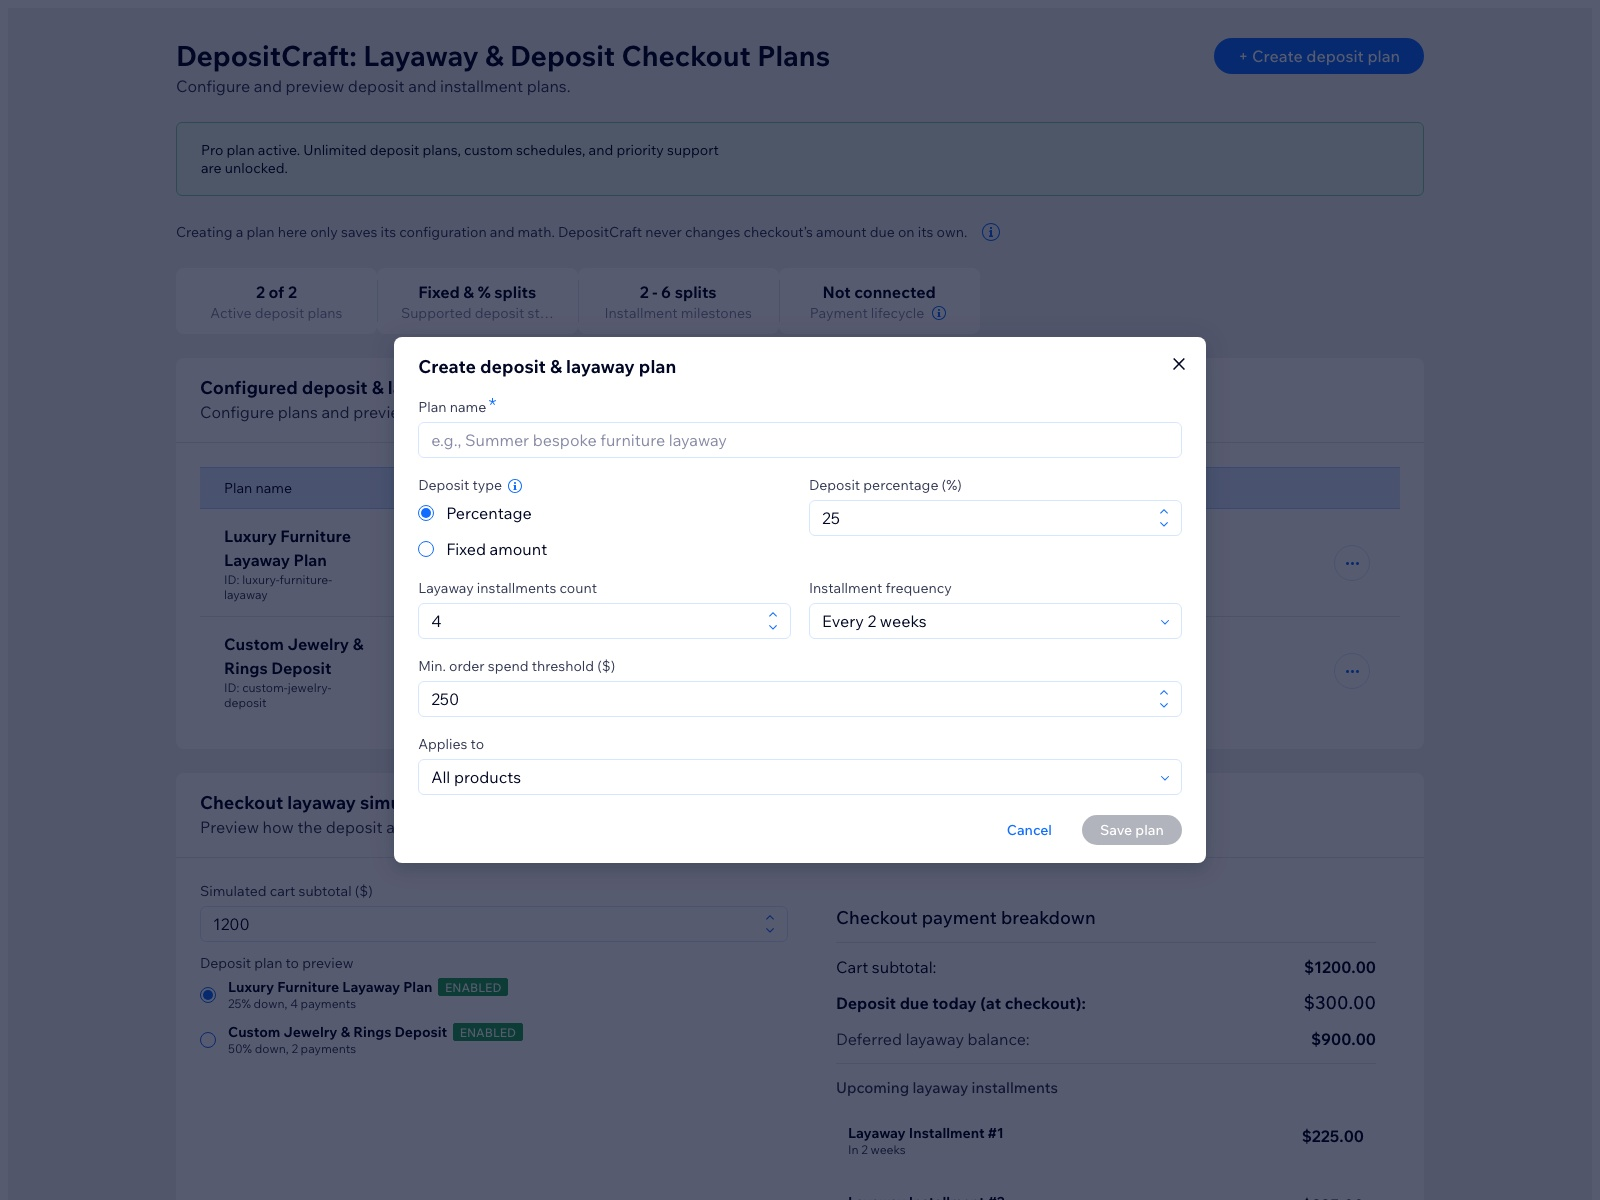
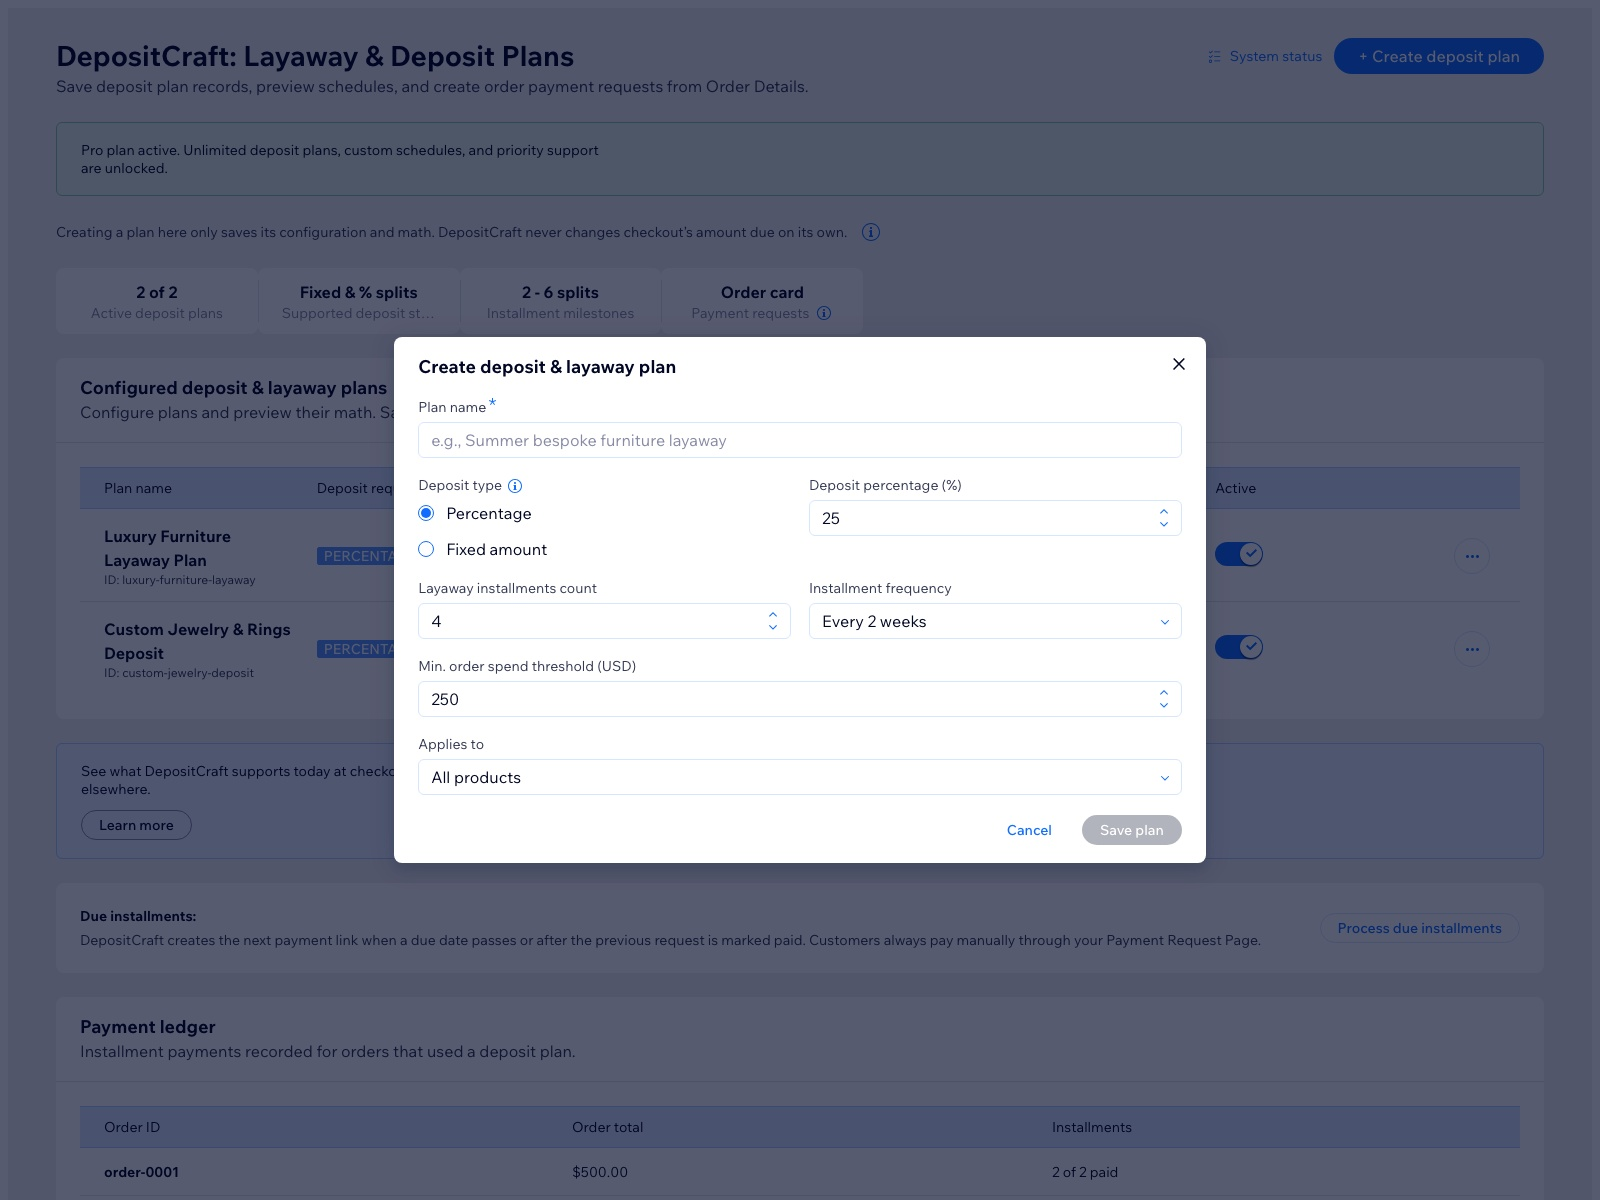
chore: final state before monorepo migration

diff --git a/src/dashboard/pages/page.tsx b/src/dashboard/pages/page.tsx
@@ -1,24 +1,55 @@
-import { withIntlProvider } from '../../intl/withIntlProvider';
-import { FormattedMessage, useIntl, type IntlShape } from 'react-intl';
 import React, { useEffect, useRef, useState } from 'react';
+import { FormattedMessage, useIntl, type IntlShape } from 'react-intl';
 import { appInstances } from '@wix/app-management';
-import { WixDesignSystemProvider, Page, Card, Table, TableActionCell, Button, TextButton, Badge, ToggleSwitch, Input, NumberInput, FormField, Modal, CustomModalLayout, MessageModalLayout, Box, Heading, Text, Divider, EmptyState, SectionHelper, StatisticsWidget, RadioGroup, Dropdown, Loader, InfoIcon } from '@wix/design-system';
-import { Delete, Checklist } from '@wix/wix-ui-icons-common';
+import { orders } from '@wix/ecom';
+import {
+  Badge,
+  Box,
+  Button,
+  Card,
+  CustomModalLayout,
+  Divider,
+  Dropdown,
+  EmptyState,
+  FormField,
+  Heading,
+  InfoIcon,
+  Input,
+  Loader,
+  MessageModalLayout,
+  Modal,
+  NumberInput,
+  Page,
+  RadioGroup,
+  SectionHelper,
+  StatisticsWidget,
+  Table,
+  TableActionCell,
+  Text,
+  TextButton,
+  ToggleSwitch,
+  WixDesignSystemProvider,
+  listItemSelectBuilder,
+} from '@wix/design-system';
 import '@wix/design-system/styles.global.css';
-import { InstallationChecklist, StorageSetupNeeded, DashboardErrorBoundary, type ChecklistItem } from '@wix-extensions/core/ui';
+import { Checklist, Delete } from '@wix/wix-ui-icons-common';
+import { DashboardErrorBoundary, InstallationChecklist, StorageSetupNeeded, type ChecklistItem } from '@wix-extensions/core/ui';
 import { installGlobalErrorReporting } from '@wix-extensions/core/telemetry';
+import { fetchRecentCollectionLookups, type CollectionLookupItem } from '@wix-extensions/core/lookups';
+
+import { withIntlProvider } from '../../intl/withIntlProvider';
 import { loadConfiguration, saveConfiguration, assessConfigurationStorage } from '../../shared/configuration';
 import { confirmStorageWithAutoRetry, extractRequestId, storageDetailHint, type StorageSetupState, type StorageCheckItem } from '../../shared/storage-readiness';
 import { emitDiagnostic, markDashboardLoaded, markSetupFinished } from '../../shared/logger';
 import { showAppToast } from '../../shared/toast';
-import { getAppEntitlement, canUsePaidFeatures, getWixPricingPageUrl, AppEntitlement } from '../../shared/entitlement';
+import { getAppEntitlement, canUsePaidFeatures, getWixPricingPageUrl, type AppEntitlement } from '../../shared/entitlement';
 import { evaluateRuleAgainstPlan, canUseFixedDeposit, canUseCustomFrequency, FREE_PLAN_MAX_ACTIVE_RULES, FREE_PLAN_FIXED_FREQUENCY } from '../../shared/plan-limits';
-import { DepositRule, DepositType, DepositRuleScope, InstallmentFrequency } from '../../types';
 import { evaluateDepositPlan } from '../../shared/deposit-engine';
 import { resolveEcommerceInstalled, WIX_ECOMMERCE_APP_MARKET_URL, type EcommerceInstallState } from '../../shared/ecommerce';
 import { deferredDiscountPercent } from '../../shared/cart-evaluation';
 import { depositTriggerName } from '../../shared/deposit-trigger-id';
 import { processDueInstallments, listPaymentLedgerPage } from '../../shared/installment-billing';
+import type { DepositRule, DepositType, DepositRuleScope, InstallmentFrequency } from '../../types';
 import type { PaymentLedger } from '../../shared/payment-ledger';
 const APP_ID = 'cecd3584-c6bd-4895-a776-613643ef171d';
 const CURRENCY = 'USD';
@@ -273,6 +304,17 @@ function DepositCraftDashboard() {
       document.removeEventListener('visibilitychange', onVisible);
     };
   }, []);
+
+  useEffect(() => {
+    let active = true;
+    fetchRecentCollectionLookups(orders).then(items => {
+      if (active && items.length > 0) {
+        setAvailableCollections(items);
+      }
+    }).catch(() => {});
+    return () => { active = false; };
+  }, []);
+
   const isPaidPlan = canUsePaidFeatures(entitlement);
   const upgradeUrl = instanceId ? getWixPricingPageUrl(APP_ID, instanceId) : undefined;
   const saveChanges = async () => {
@@ -313,6 +355,8 @@ function DepositCraftDashboard() {
   const [newMinSubtotal, setNewMinSubtotal] = useState('250');
   const [newScope, setNewScope] = useState<DepositRuleScope>('ALL_PRODUCTS');
   const [newTargetCollections, setNewTargetCollections] = useState('');
+  const [availableCollections, setAvailableCollections] = useState<CollectionLookupItem[]>([]);
+  const [isManualCollection, setIsManualCollection] = useState(false);
   const [modalGateMessage, setModalGateMessage] = useState('');
 
   // Simulator state
@@ -376,6 +420,7 @@ function DepositCraftDashboard() {
     setNewScope('ALL_PRODUCTS');
     setNewTargetCollections('');
     setModalGateMessage('');
+    setIsManualCollection(false);
   };
   const handleAddRule = () => {
     if (!newRuleName.trim()) return;
@@ -1181,15 +1226,69 @@ function DepositCraftDashboard() {
               }]} />
               </FormField>
 
-              {newScope === 'COLLECTION' && <FormField label={intl.formatMessage({ id: 'app.modal.collectionIdsLabel', defaultMessage: 'Collection IDs (comma-separated)' })} infoContent={intl.formatMessage({
-              id: 'app.modal.collectionIdsInfo',
-              defaultMessage: 'Find collection IDs in Wix Stores > Collections.'
-            })}>
-                  <Input placeholder={intl.formatMessage({
-                id: 'app.modal.collectionIdsPlaceholder',
-                defaultMessage: 'e.g., custom-sofas, luxury-beds'
-              })} value={newTargetCollections} onChange={e => setNewTargetCollections(e.target.value)} />
-                </FormField>}
+              {newScope === 'COLLECTION' && (
+                <FormField
+                  label={intl.formatMessage({ id: 'app.modal.collectionIdsLabel', defaultMessage: 'Target Store Collection' })}
+                  infoContent={intl.formatMessage({
+                    id: 'app.modal.collectionIdsInfo',
+                    defaultMessage: 'Apply deposit terms when products from this collection are in cart.'
+                  })}
+                >
+                  {availableCollections.length > 0 && !isManualCollection ? (
+                    <Box direction="vertical" gap="4px">
+                      <Dropdown
+                        placeholder={intl.formatMessage({ id: 'app.modal.collectionSelectPlaceholder', defaultMessage: 'Select a collection from store catalog…' })}
+                        options={availableCollections.map(c => listItemSelectBuilder({
+                          id: c.id || c.slug || '',
+                          title: c.name,
+                          subtitle: c.slug ? `/collections/${c.slug}` : undefined,
+                          suffix: c.numberOfProducts !== undefined ? <Text size="tiny" secondary>{`${c.numberOfProducts} items`}</Text> : undefined,
+                        }))}
+                        selectedId={availableCollections.find(c => c.id === newTargetCollections || (c.slug && c.slug === newTargetCollections))?.id || newTargetCollections || undefined}
+                        onSelect={opt => {
+                          if (opt?.id) setNewTargetCollections(String(opt.id));
+                        }}
+                        valueParser={(opt: any) => opt?.title ? `${opt.title}${opt.subtitle ? ` (${opt.subtitle})` : ''}` : opt?.label || ''}
+                        clearButton
+                        onClear={() => setNewTargetCollections('')}
+                      />
+                      <Box>
+                        <TextButton
+                          size="tiny"
+                          priority="secondary"
+                          onClick={() => setIsManualCollection(true)}
+                        >
+                          <FormattedMessage id="app.modal.enterCollectionManually" defaultMessage="Enter collection ID or slug manually" />
+                        </TextButton>
+                      </Box>
+                    </Box>
+                  ) : (
+                    <Box direction="vertical" gap="4px">
+                      <Input
+                        placeholder={intl.formatMessage({
+                          id: 'app.modal.collectionIdsPlaceholder',
+                          defaultMessage: 'e.g., custom-sofas, luxury-beds'
+                        })}
+                        value={newTargetCollections}
+                        onChange={e => setNewTargetCollections(e.target.value)}
+                        clearButton
+                        onClear={() => setNewTargetCollections('')}
+                      />
+                      {availableCollections.length > 0 && (
+                        <Box>
+                          <TextButton
+                            size="tiny"
+                            priority="secondary"
+                            onClick={() => setIsManualCollection(false)}
+                          >
+                            <FormattedMessage id="app.modal.chooseCollectionFromList" defaultMessage="← Choose from store collections" />
+                          </TextButton>
+                        </Box>
+                      )}
+                    </Box>
+                  )}
+                </FormField>
+              )}
             </Box>
           </CustomModalLayout>
         </Modal>
@@ -1287,3 +1386,4 @@ function DepositCraftPage() {
     </WixDesignSystemProvider>;
 }
 export default withIntlProvider(DepositCraftPage);
+
